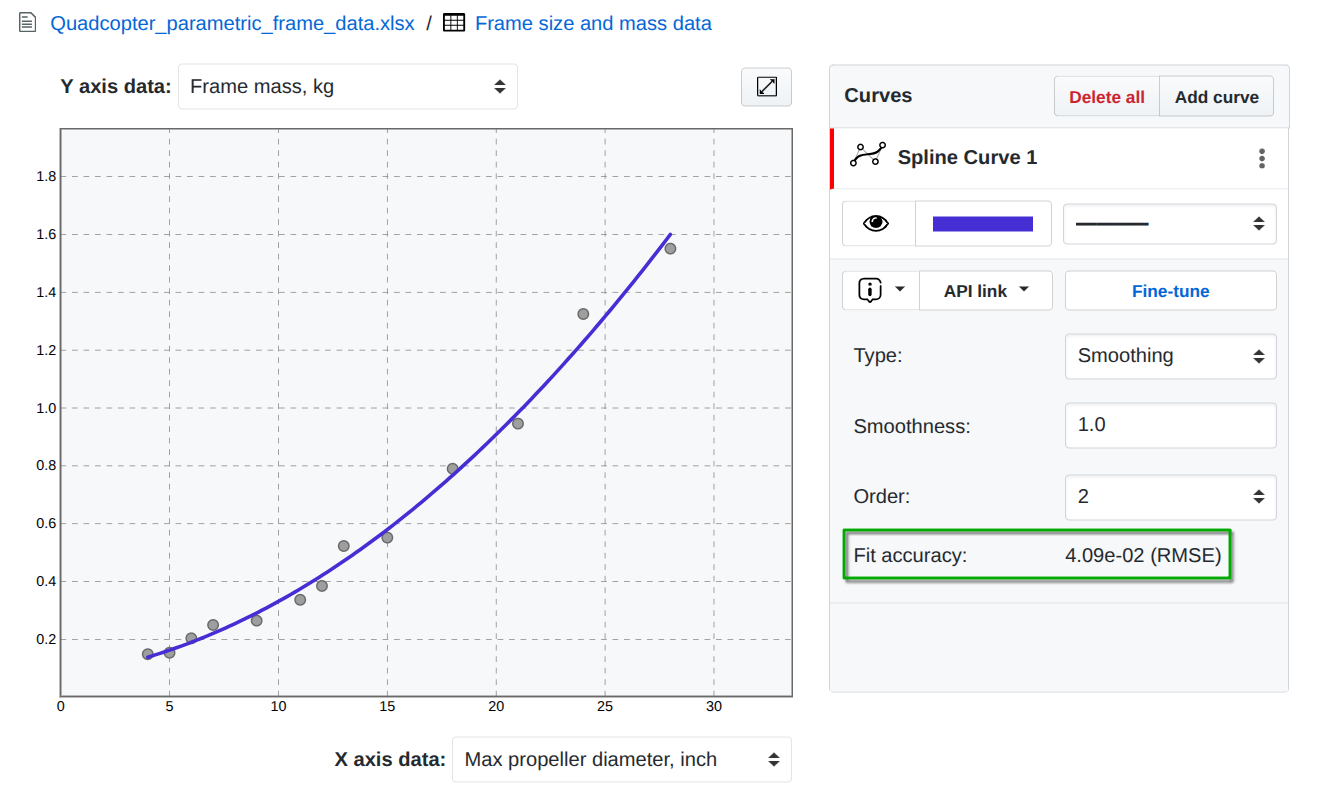
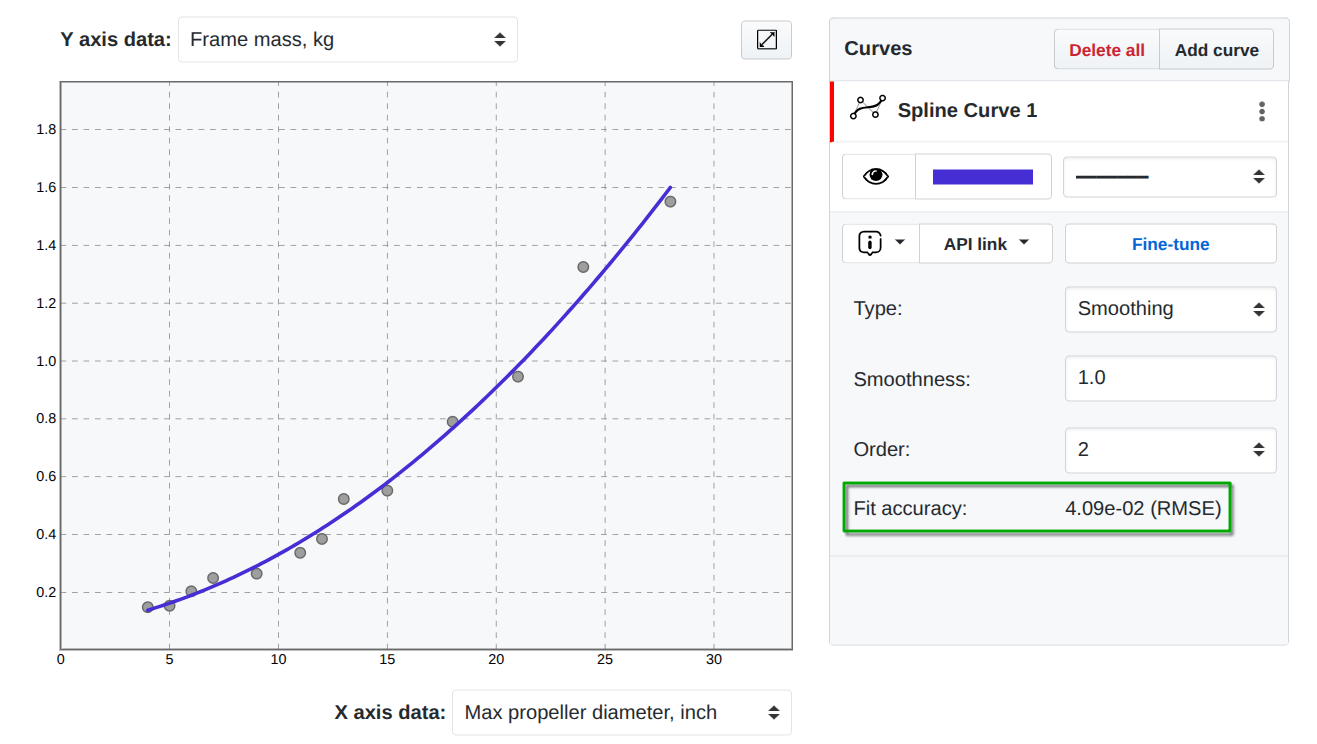
Reduce number of images

diff --git a/papers/vadym_pasko/main.md b/papers/vadym_pasko/main.md
@@ -132,7 +132,23 @@ Least-Squares cubic spline.
 
 ### Pain Points of Pure Programmable Spline Fitting
 
-SciPy provides a programmatic interface to robust spline fitting methods suitable for a variety of tasks, particularly when working with complex experimental or statistical data. However, despite offering multiple fitting methods and adjustable parameters, selecting an appropriate combination can be challenging. As noted in [@pasko-blog-post-2015], issues such as overfitting and extrapolation control lack straightforward solutions and often require multiple iterations, either with visual inspection or advanced scripting.
+SciPy provides a programmatic interface to robust spline fitting methods suitable for a variety of tasks, particularly when working with complex experimental or statistical data. However, despite offering multiple fitting methods and adjustable parameters, selecting an appropriate combination can be challenging. As noted in [@pasko-blog-post-2015], issues such as overfitting ({ref}`fig:overfitting`) and extrapolation control ({ref}`fig:bad_extrapolation`) lack straightforward solutions and often require multiple iterations, either with visual inspection or advanced scripting.
+
+::::{grid} 1 1 2 2
+
+:::{figure} overfitting.png
+:height: 230px
+:label: fig:overfitting
+Typical overfitting issue - RMSE is minimal, but interpolation error is high
+:::
+
+:::{figure} bad_extrapolation.png
+:height: 230px
+:label: fig:bad_extrapolation
+Typical extrapolation issue - curve behavior is not following the data trend beyound the given interval
+:::
+
+::::
 
 The mathematical formulation of B-splines—especially parametric B-splines and NURBS—enables fine control over curve shapes through manipulation of control points and knot vectors. While this functionality is widely leveraged in computer graphics and CAD applications, it is not supported in SciPy.
 
@@ -149,34 +165,29 @@ These needs motivated the development of SplineCloud, a platform that extends Sc
 
 ## Introducing SplineCloud
 
-SplineCloud is an open platform for formalized knowledge exchange. It is designed to make technical data, like results of simulations, tests and modeling more accessible and reusable in computer code. The platform has integrated tools that allow formalizing and organizing data in topical repositories. Its architecture and instruments help reduce the routine overhead of data collection, processing, and model reconstruction in code.
+SplineCloud is an open platform for formalized knowledge exchange (free to use for everyone). It is a cloud solution designed to make technical data, like results of simulations, tests and modeling more accessible and reusable in computer code. The platform has integrated tools that allow formalizing and organizing data in topical repositories. Its architecture and instruments help reduce the routine overhead of data collection, processing, and model reconstruction in code.
 
 SplineCloud’s main features are: plot digitizer, advanced spline fitting tool, open API, and client libraries for Python and MATLAB (support of other languages is planned for future implementation). It addresses all four problems of FAIR data: findability, accessibility, interoperability, and reusability for a specific type of data: experimental, simulation, and statistical results, which can have either tabular or graphical form. 
 
-The philosophy behind the platform is in representing data relations in the form of spline models, which can be reused in code to omit tedious and repetitive operations on data extraction and fitting, which usually complicate mathematical modeling processes. In this way, SplineCloud can be considered as a repository-based open library of functional relations. The typical user journey on the platform is given on the {ref}`fig:4`.
+The philosophy behind the platform is in representing data relations in the form of spline models, which can be reused in code to omit tedious and repetitive operations on data extraction and fitting, which usually complicate mathematical modeling processes. In this way, SplineCloud can be considered as a repository-based open library of functional relations. The typical user journey on the platform is given on the {ref}`fig:workflow_scheme`.
 
 :::{figure} workflow_scheme.png
-:label: fig:4
-:width: 400px
+:label: fig:workflow_scheme
+:width: 350px
 SplineCloud workflow scheme
 :::
 
-The platform’s data structure is given in {ref}`fig:5`. This data structure models a hierarchical system for managing technical datasets within user-owned repositories. Each repository contains multiple data files, which serve as sources for datasets; these in turn produce subsets of structured (clean) data used for construction of data relations. Relationships between columns in subsets are captured as data relation objects, which can be fitted with spline curves to model underlying patterns.
+The platform’s data structure is given in {ref}`fig:class_diagram`. This data structure models a hierarchical system for managing technical datasets within user-owned repositories. Each repository contains multiple data files, which serve as sources for datasets; these in turn produce subsets of structured (clean) data used for construction of data relations. Relationships between columns in subsets are captured as data relation objects, which can be fitted with spline curves to model underlying patterns.
 
 :::{figure} class_diagram.png
-:label: fig:5
+:label: fig:class_diagram
+:width: 800px
 SplineCloud objects relationship diagram
 :::
 
 Spline fitting tool, a main instrument of the platform, is built on top of SciPy’s interpolate module and provides a visual interface to three main spline fitting methods described in section 3: Interpolating Splines, Smoothing Splines, Least Squares Splines.
 
-:::{figure} smoothing_spline_SC.png
-:width: 600px
-:label: fig:6
-SplineCloud's interactive spline fitting tool
-:::
-
-The web interface of the spline fitting tool ({ref}`fig:6`) is powered by [D3.js](https://d3js.org/) and JavaScript build of [verb-nurbs](https://github.com/pboyer/verb) - an open-source library for NURBS modeling. The RESTful API and an open-source Python client library ([splinecloud-scipy](https://github.com/nomad-vagabond/splinecloud-scipy)) allow the reuse of data objects and spline curves in code. In this way, SplineCloud addresses the key limitations of traditional spline fitting workflows by offering the following core capabilities:
+The web interface of the spline fitting tool is powered by [D3.js](https://d3js.org/) and JavaScript build of [verb-nurbs](https://github.com/pboyer/verb) - an open-source library for NURBS modeling. The RESTful API and an open-source Python client library ([splinecloud-scipy](https://github.com/nomad-vagabond/splinecloud-scipy)) allow the reuse of data objects and spline curves in code. In this way, SplineCloud addresses the key limitations of traditional spline fitting workflows by offering the following core capabilities:
 
  - **Interactive Spline Modeling**. Users can construct spline curves using an interface to the SciPy’s interpolate module. Fine-tuning mode enables manual transformation of knot vectors and control points with real-time feedback to control smoothness, continuity, and fitting tolerance of the curves.
 
@@ -188,23 +199,7 @@ The web interface of the spline fitting tool ({ref}`fig:6`) is powered by [D3.js
 
 ## Interactive Spline Fitting Workflow
 
-As it was mentioned in the prior sections, conventional programmatic approaches to curve fitting — such as those available in SciPy’s interpolate module — require iterative selection of fitting parameters. Usually, this means manual parameter tuning and replotting results to assess smoothness and fit quality. Alternatively, custom optimization scripts can be written to run through different combinations of parameters to minimize mean squared error (MSE), root mean squared error (RMSE), or another objective function. However, this complicates the process and does not allow for estimation of possible overfitting ({ref}`fig:7`) and extrapolation ({ref}`fig:8`) issues.
-
-::::{grid} 1 1 2 2
-
-:::{figure} overfitting.png
-:height: 250px
-:label: fig:7
-Typical overfitting issue - RMSE is minimal, but interpolation error is high
-:::
-
-:::{figure} bad_extrapolation.png
-:height: 250px
-:label: fig:8
-Typical extrapolation issue - curve behavior is not following the data trend beyound the given interval
-:::
-
-::::
+As it was mentioned in the prior sections, conventional programmatic approaches to curve fitting — such as those available in SciPy’s interpolate module — require iterative selection of fitting parameters. Usually, this means manual parameter tuning and replotting results to assess smoothness and fit quality. Alternatively, custom optimization scripts can be written to run through different combinations of parameters to minimize mean squared error (MSE), root mean squared error (RMSE), or another objective function. However, this complicates the process and does not allow for estimation of possible overfitting ({ref}`fig:overfitting`) and extrapolation ({ref}`fig:bad_extrapolation`) issues.
 
 Interactivity in the curve fitting process significantly simplifies and accelerates model construction. It enables users to identify overfitting, discontinuities, or extrapolation issues early, and make real-time adjustments. This is especially valuable in parametric spline fitting, where fine-tuning the curve shape and knot configuration often requires iterative, visual feedback.
 
@@ -215,30 +210,24 @@ In this section, we will take a look at how these capabilities are implemented i
 
 ### Data Preparation
 
-According to the workflow presented in {ref}`fig:4`, data has to be uploaded to the existing or new repository. It can be a text file, a spreadsheet, or an image containing a plot. In a case of text data, a default dataset will be created automatically and a subset of data can be identified by adjusting data loading options ({ref}`fig:9`). Datasets will be created automatically for each sheet in the spreadsheet source file. An interactive plot digitizer tool will be displayed for the image file to help extract data ranges from plots ({ref}`fig:10`).
+According to the workflow presented in {ref}`fig:workflow_scheme`, data has to be uploaded to the existing or new repository. It can be a text file, a spreadsheet, or an image containing a plot. In a case of text data, a default dataset will be created automatically and a subset of data can be identified by adjusting data loading options. Datasets will be created automatically for each sheet in the spreadsheet source file. An interactive plot digitizer tool will be displayed for the image file to help extract data ranges from plots ({ref}`fig:splinecloud_datasets`).
 
-:::{figure} tabular_dataset.png
-:width: 750px
-:label: fig:9
-Tabular dataset
-:::
-
-:::{figure} plot_didgitizer.png
-:width: 700px
-:label: fig:10
-Dataset and subsets extracted from an image
+:::{figure} splinecloud_datasets.png
+:width: 650px
+:label: fig:splinecloud_datasets
+SplineCloud datasets extracted from tabular data file and plots
 :::
 
 After identifying clean subsets, a default Data Relation object will be created after entering a curve fitting mode (either by clicking Fit Curve button or going into the Relations tab).
 
 ### Automatic Spline Fitting
 
-By adding a first curve, an initial spline fit is generated using one of the SciPy fitting methods. The default choice is often a smoothing spline (implemented via `UnivariateSpline`), where a smoothing factor controls the trade-off between fidelity to the data and smoothness of the resulting curve ({ref}`fig:11`). 
+By adding a first curve, an initial spline fit is generated using one of the SciPy fitting methods. The default choice is often a smoothing spline (implemented via `UnivariateSpline`), where a smoothing factor controls the trade-off between fidelity to the data and smoothness of the resulting curve ({ref}`fig:splinecloud-curve-fitting`). 
 
-:::{figure} smoothing_parameter.png
-:width: 700px
-:label: fig:11
-Dataset and subsets extracted from an image
+:::{figure} splinecloud-curve-fitting.png
+:width: 550px
+:label: fig:splinecloud-curve-fitting
+Selecting a spline fitting method
 :::
 
 The important difference here is that SplineCloud’s smoothness parameter is a relative parameter used to calculate the actual SciPy’s (FITPACK’s) smoothing factor $s$ defined as:
@@ -254,21 +243,9 @@ The transition from the relative smoothing parameter to  the SciPy’s s-factor 
 
 This approach improves user experience - instead of guessing each time the correct absolute value (which depends on the scale of data points), it is more intuitive to use relative values. By selecting several values for one data range the developed feedback instructs the more appropriate values for another curve of a different scale.
 
-:::{figure} least_squares_method.png
-:width: 700px
-:label: fig:12
-Dataset and subsets extracted from an image
-:::
+Least Squares fitting is implemented as an alternative to smoothing splines and is built on top of SciPy’s `LSQUnivariateSpline` class. For simplicity, a uniform knot vector is constructed and passed to the class constructor using the number of internal knots from the user input. However, there is an option to adjust the knot vector interactively and use least squares fitting for the given non-uniform knot vector. This capability is implemented in the fine-tuning mode (see Section 5.3).
 
-Least Squares fitting is implemented as an alternative to smoothing splines and is built on top of SciPy’s `LSQUnivariateSpline` class. For simplicity, a uniform knot vector is constructed and passed to the `LSQUnivariateSpline` constructor using the number of internal knots from the user input ({ref}`fig:12`). However, there is an option to adjust the knot vector interactively and use least squares fitting for the given non-uniform knot vector. This capability is implemented in the fine-tuning mode (see Section 5.3).
-
-:::{figure} interpolating_spline.png
-:width: 700px
-:label: fig:13
-Dataset and subsets extracted from an image
-:::
-
-For the cases when the curve should pass through the data points, SplineCloud has its implementation of the interpolating splines ({ref}`fig:13`). This method is also implemented by using SciPy’s `UnivariateSpline` with hardcoded $s=0$.
+For the cases when the curve should pass through the data points, SplineCloud has its implementation of the interpolating splines. This method is also implemented by using SciPy’s `UnivariateSpline` with hardcoded $s=0$.
 
 ### Fine-Tuning. Interactive Adjustments of Control Points and Knot Vector
 
@@ -284,11 +261,11 @@ S^{(y)}(t) &= \sum_{i=0}^{n} c_{i}^{(y)} B_{i,k}(t)
 \end{aligned}
 ```
 
-In simpler words, parametric spline curves can be defined by two distinct univariate spline functions, $x(t)$ and $y(t)$, sharing a common knot vector ({ref}`fig:14`). This representation allows for the modeling of complex geometries, including loops, sharp transitions, and high-curvature regions.
+In simpler words, parametric spline curves can be defined by two distinct univariate spline functions, $x(t)$ and $y(t)$, sharing a common knot vector ({ref}`fig:spline_curve_as_two_functions`). This representation allows for the modeling of complex geometries, including loops, sharp transitions, and high-curvature regions.
 
 :::{figure} spline_curve_as_two_functions.png
-:width: 600px
-:label: fig:14
+:width: 500px
+:label: fig:spline_curve_as_two_functions
 Parametric spline curve as a combination of two spline functions.  *Black triangles along parameter axes represent knots. Control polygons and control points are displayed in green color*
 :::
 
@@ -304,14 +281,14 @@ However, it is important to mention that for parametric spline curves coordinate
 
 Due to the local support property of B-spline basis functions, moving a single control point influences the shape of the curve only within a limited range of the parameter domain, providing localized editing capabilities.
 
-In the Fine-Tune mode, users can interactively drag control points to reshape the curve ({ref}`fig:15`). This mirrors the behavior of spline modeling in professional CAD environments, where designers sculpt geometry directly. The influence of each control point depends not only on its position but also on the associated basis function and, optionally, its weight. For example:
+In the Fine-Tune mode, users can interactively drag control points to reshape the curve ({ref}`fig:fine-tune-control-points`). This mirrors the behavior of spline modeling in professional CAD environments, where designers sculpt geometry directly. The influence of each control point depends not only on its position but also on the associated basis function and, optionally, its weight. For example:
  - Control points clustered more closely create tighter curvature and sharper transitions;
  - Distant spacing results in smoother, flatter regions of the curve;
  - Assigning higher weights to a control point increases its pull on the curve, bringing it closer to the point's location, converting the B-Spline to NURBS.
 
 :::{figure} fine-tune-control-points.png
-:width: 700px
-:label: fig:15
+:width: 600px
+:label: fig:fine-tune-control-points
 Adjusting control points of the spline curve in the Fine-Tune mode
 :::
 
@@ -327,11 +304,11 @@ The location and multiplicity of knots affect several critical properties of the
 
 - **Flexibility**. Adding more knots increases the local adaptability of the spline, allowing it to better follow variations in the data. In the B-spline formulation, the number of basis functions, and therefore the number of control points $n$ is always $T−k−1$, where $k$ is the spline degree, $T$ is the number of knots. As more interior knots are introduced, the number of basis functions increases, providing additional degrees of freedom for shaping the curve while maintaining the required continuity.
 
-In traditional fitting methods such as `LSQUnivariateSpline` in SciPy, the knot vector must be either provided manually or generated heuristically, which typically requires some kind of iterative approach in finding an optimal (usually quasi-optimal) knot vector. SplineCloud removes this complexity by exposing the knot vector as an editable structure in the Fine-Tune mode, where users can manipulate knots directly and observe their impact on the spline in real time ({ref}`fig:16`).
+In traditional fitting methods such as `LSQUnivariateSpline` in SciPy, the knot vector must be either provided manually or generated heuristically, which typically requires some kind of iterative approach in finding an optimal (usually quasi-optimal) knot vector. SplineCloud removes this complexity by exposing the knot vector as an editable structure in the Fine-Tune mode, where users can manipulate knots directly and observe their impact on the spline in real time ({ref}`fig:fine-tuning-knot-vector`).
 
 :::{figure} fine-tuning-knot-vector.png
-:width: 700px
-:label: fig:16
+:width: 600px
+:label: fig:fine-tuning-knot-vector
 Adjusting knot vector of the spline curve in the Fine-Tune mode
 :::
 
@@ -432,27 +409,29 @@ RMSE (Manual): 0.22361
 
 #### Estimating Fitting Errors in SplineCloud
 
-In SplineCloud, the RMSE is calculated automatically for all curves. The `Fit accuracy` hint updates after each curve modification ({ref}`fig:17`). This allows tracking the change of fitting error while applying different fitting parameters, comparing different models and fine-tuned curves against automatically fitted models.
+In SplineCloud, the RMSE is calculated automatically for all curves. The `Fit accuracy` hint updates after each curve modification ({ref}`fig:fit_accuracy`). This allows tracking the change of fitting error while applying different fitting parameters, comparing different models and fine-tuned curves against automatically fitted models.
+
+::::{grid} 1 1 2 2
 
 :::{figure} fit_accuracy.png
-:width: 700px
-:label: fig:17
+:label: fig:fit_accuracy
 RMSE estimation in SplineCloud
 :::
 
-For complex curve shapes, especially those with closed loops ({ref}`fig:18`), the error between a data point and the curve should not be measured only along the vertical axis. Instead, the true discrepancy is the Euclidean distance from each data point to the nearest point on the curve. This approach is implemented in SplineCloud to estimate ftting errors of parametric curves that approximate data in non-ascending order via $RMSE_{sd}$ - root mean squared shortest distance error:
+:::{figure} fit_accuracy_parametric.png
+:label: fig:fit_accuracy_parametric
+RMSE valuated via shortst distance residuals
+:::
+
+::::
+
+For complex curve shapes, especially those with closed loops ({ref}`fig:fit_accuracy_parametric`), the error between a data point and the curve should not be measured only along the vertical axis. Instead, the true discrepancy is the Euclidean distance from each data point to the nearest point on the curve. This approach is implemented in SplineCloud to estimate ftting errors of parametric curves that approximate data in non-ascending order via $RMSE_{sd}$ - root mean squared shortest distance error:
 
 ```{math}
 \text{RMSE}_{sd} = \sqrt{ \frac{1}{n} \sum_{i=1}^{n} (w_i d_i)^2 }
 ```
 
 where $d_i$ is the shortest distance between a data point and spline curve. Evaluation of this distance is implemented via SciPy's `optimize` module, and particularly a [direct](https://docs.scipy.org/doc/scipy/reference/generated/scipy.optimize.direct.html) method is used as the one of the most stable and fastest global optimization algorithms (based on the in-house analyses).
-
-:::{figure} fit_accuracy_parametric.png
-:width: 700px
-:label: fig:18
-RMSE valuated via shortst distance residuals
-:::
 
 
 ## Reusability and Reproducibility with SplineCloud
@@ -502,11 +481,11 @@ from splinecloud_scipy import load_spline
 spline = load_spline(<curve_uid>)
 ```
 
-The curve UID can be taken from SplineCloud - an API link dropdown on the Curves toolbox ({ref}`fig:19`)
+The curve UID can be taken from SplineCloud - an API link dropdown on the Curves toolbox ({ref}`fig:curve_api_link`)
 
 :::{figure} curve_api_link.png
-:width: 700px
-:label: fig:19
+:width: 600px
+:label: fig:curve_api_link
 Accessing curve API link
 :::
 
@@ -520,7 +499,7 @@ Y = spline.eval(X, extrapolate=True)
 
 :::{figure} evaluated_curve.png
 :width: 400px
-:label: fig:20
+:label: fig:evaluated_curve
 Reproduced spline curve
 :::
 
@@ -537,12 +516,12 @@ from splinecloud_scipy import load_subset
 columns, table = load_subset(<subset_uid>)
 ```
 
-Similarly to spline curve, the subset UID can be taken from SplineCloud - an API link dropdown on the table header for tabular data, and from the Subsets toolbox for data extracted from plots ({ref}`fig:21`)
+Similarly to spline curve, the subset UID can be taken from SplineCloud - an API link dropdown on the table header for tabular data, and from the Subsets toolbox for data extracted from plots ({ref}`fig:subset_api_link`)
 
 
 :::{figure} subset_api_link.png
 :width: 700px
-:label: fig:21
+:label: fig:subset_api_link
 Accessing subset API link
 :::
 
